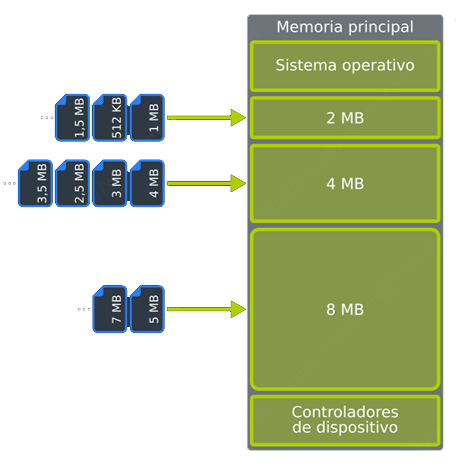
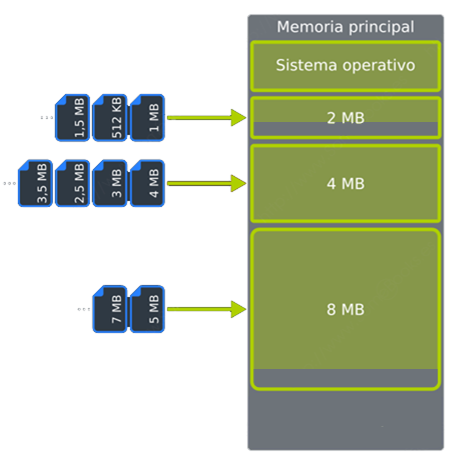
som

diff --git a/ut03.3.md b/ut03.3.md
@@ -146,22 +146,18 @@ El inconveniente de esta técnica es la importante bajada de rendimiento que sup
 ![](media/esquema_mmu.jpg)
 
 
-## Técnicas de gestión de la memoria virtual (Ampliación)
+## Técnicas de gestión de la memoria virtual 
 
-```note
-💡 La **paginación** es una técnica que consiste en dividir la memoria interna o RAM en particiones iguales llamadas frames o **marcos**, y los procesos en partes del mismo tamaño denominadas **páginas**.
-```
+### Paginación con memoria virtual
+
+Recordemos que la paginación es una técnica que consiste en dividir la memoria interna o RAM en particiones iguales llamadas frames o marcos, y los procesos en partes del mismo tamaño denominadas páginas. 
 
 -   Es un esquema de gestión de memoria en el que la asignación de memoria no es contigua.
 -   El espacio de direcciones virtuales de un proceso está dividido en bloques de tamaño fijo llamados **páginas**.
--   Se produce fragmentación interna.
+-   Se produce algo de fragmentación interna.
 -   La memoria física se divide en **marcos de página**.
--   La dirección virtual consta de un número de página virtual y un desplazamiento.
 
 Se utiliza habitualmente para la gestión de la memoria virtual gracias a su facilidad para llevar páginas no usadas al disco.
-
-
-### Proceso de paginación
 
 - El espacio de direcciones virtuales divididas en bloques de tamaño fijo llamados páginas.
 - La memoria física dividida en bloques fijos llamados **marcos de página** o frames.
@@ -178,15 +174,13 @@ Si al buscar una página en la tabla de páginas no se encuentra, se producirá 
 
 ![](media/esquema_paginacion2.png)
 
-#### Esquema de paginación
-
 ![](media/esquema_paginacion3.png)
 
 Cuando la memoria RAM se llena se llevan los marcos de los procesos inactivos al disco duro y se eliminan de la tabla de páginas.
 
 Si el dato de la dirección virtual no estuviera en la tabla de páginas se produce un **fallo de página** y se recuperará del espacio de intercambio del disco duro.
 
-#### Rendimiento e hiperpaginación
+#### Rendimiento paginación (hiperpaginación)
 
 ```note
 💡  Si el sistema no está correctamente ajustado se puede producir un fenómeno llamado **hiperpaginación o trashing**. Dicho proceso sucede cuando un proceso o programa genera fallos de página frecuentemente y el sistema pasa la mayor parte del tiempo paginando degradando el rendimiento del sistema.
@@ -202,7 +196,6 @@ El **tamaño** de las páginas es otra consideración importante de cara al **re
 - Páginas grandes > se requieren menos páginas por proceso > tablas pequeñas > mayor fragmentación interna.
 
 La memoria secundaria está diseñada para transferir eficientemente grandes bloques de datos, luego por todo lo anterior podríamos concluir que es mejor tener páginas más grandes.
-
 
 
 ### Técnica de swapping
